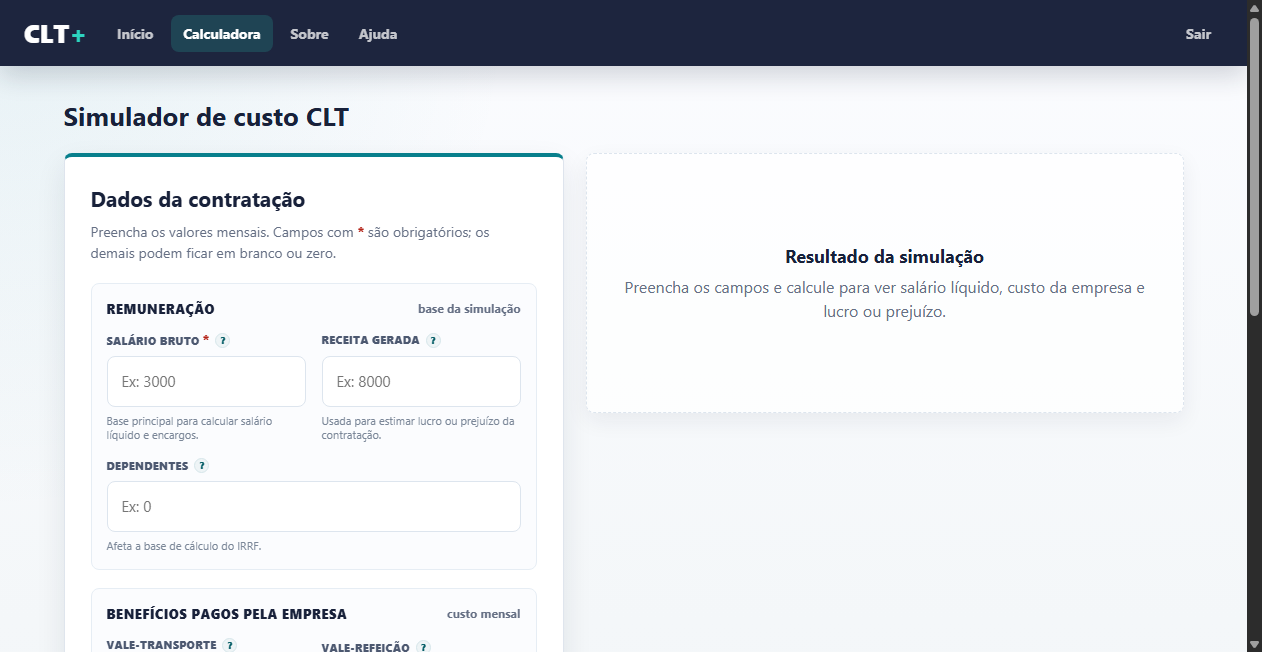
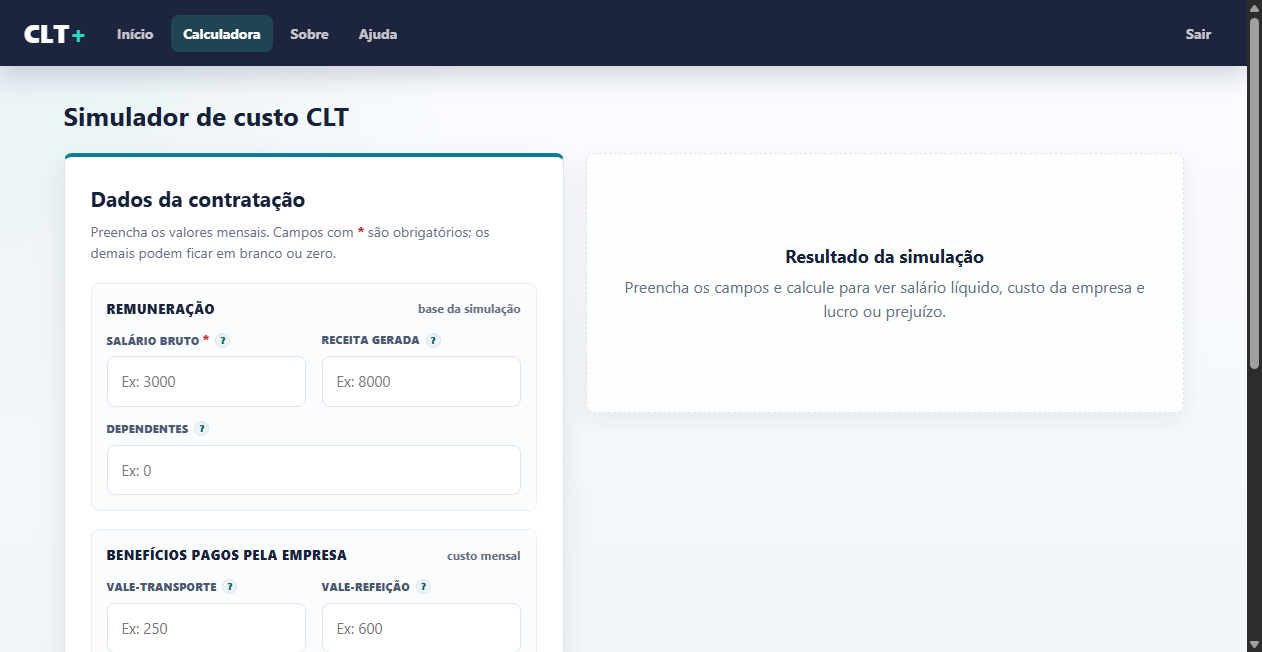
Atualiza interface da calculadora CLT

diff --git a/app/public/clt.css b/app/public/clt.css
@@ -276,12 +276,6 @@ code {
   background: #fff;
 }
 
-.field-help {
-  color: #7b8798;
-  font-size: 11px;
-  line-height: 1.35;
-}
-
 .btn {
   min-height: 44px;
   display: inline-flex;